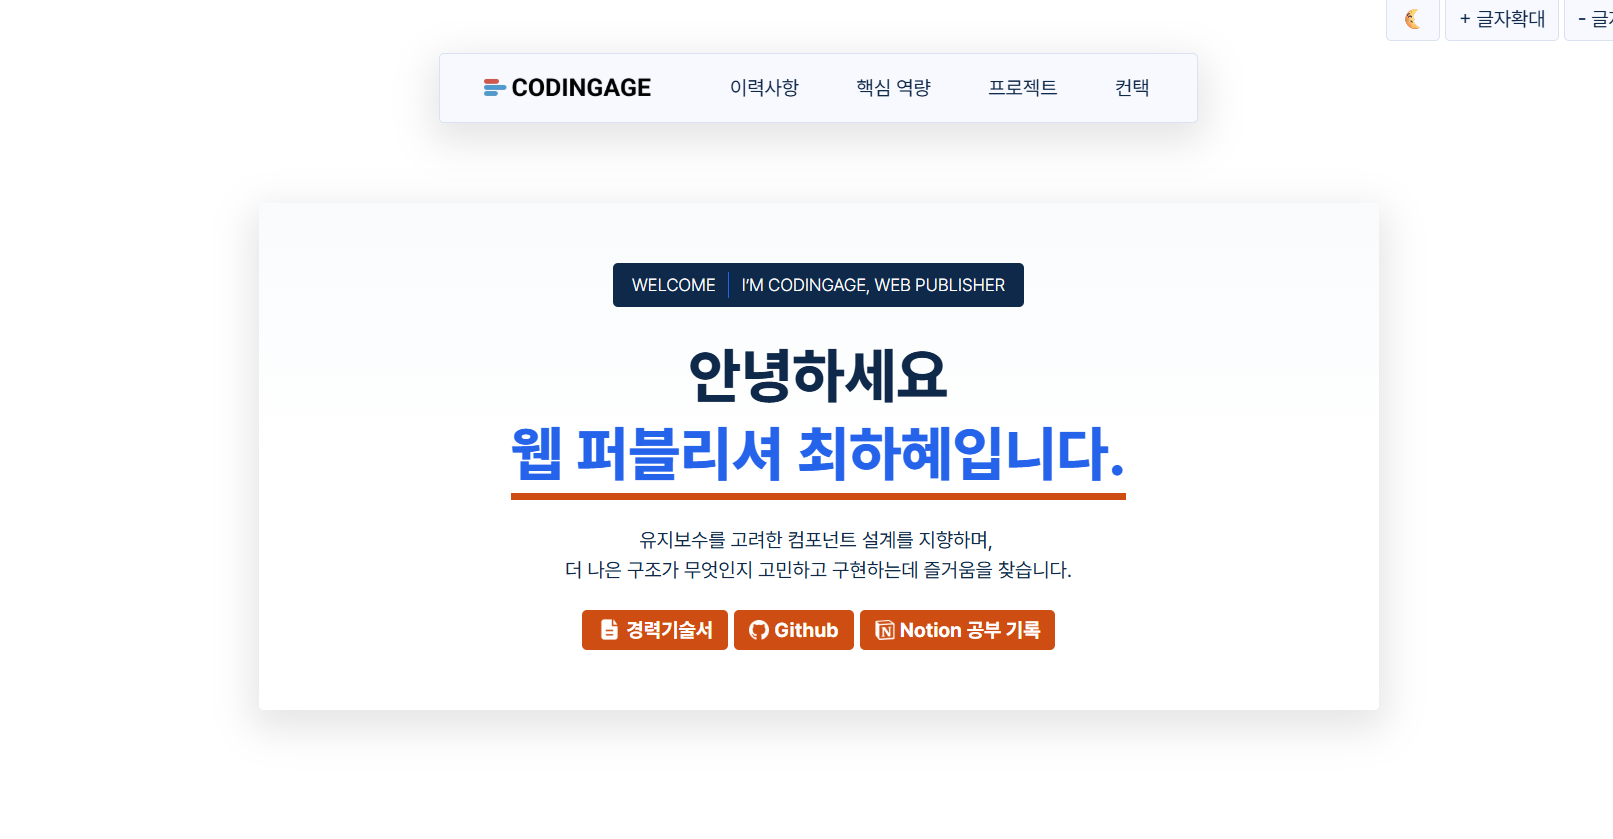
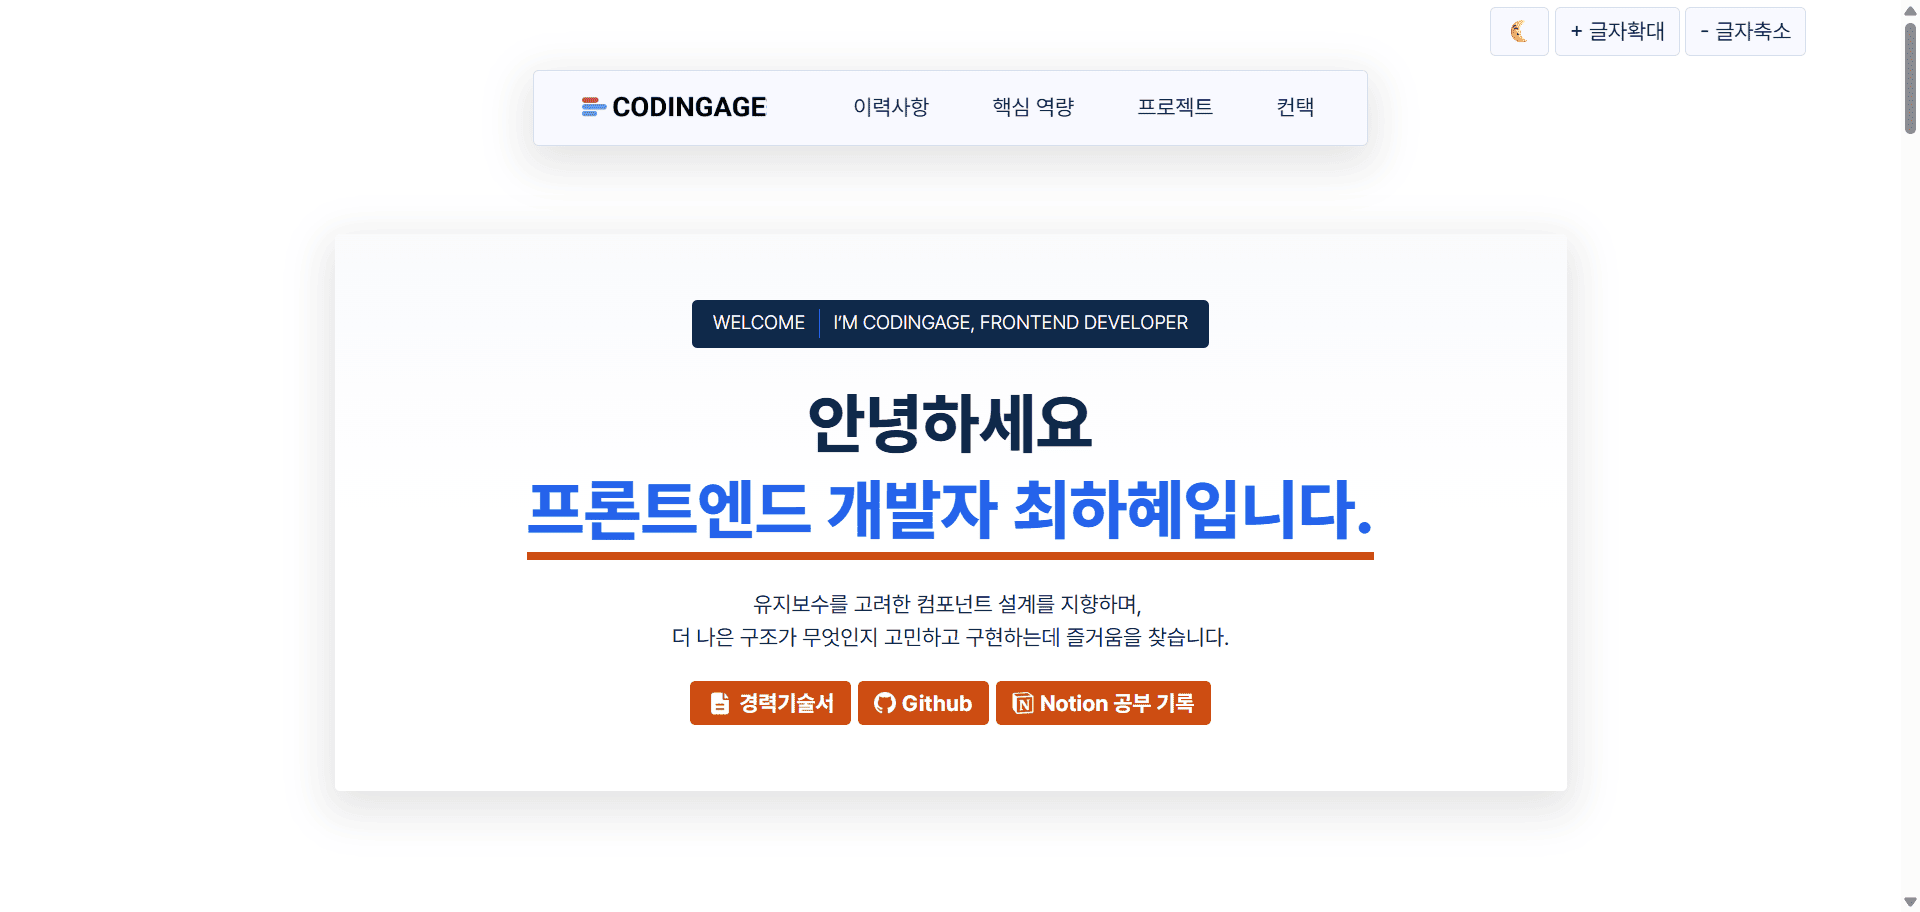
이미지수정

diff --git a/app/[locale]/layout.tsx b/app/[locale]/layout.tsx
@@ -43,7 +43,7 @@ export const metadata: Metadata = {
     siteName: "코딩에이지 포트폴리오",
     images: [
       {
-        url: "https://hahye.com/images/screenshot/img_main2.png",
+        url: "https://hahye.com/images/screenshot/img_main.png",
         width: 1200,
         height: 630,
       },
